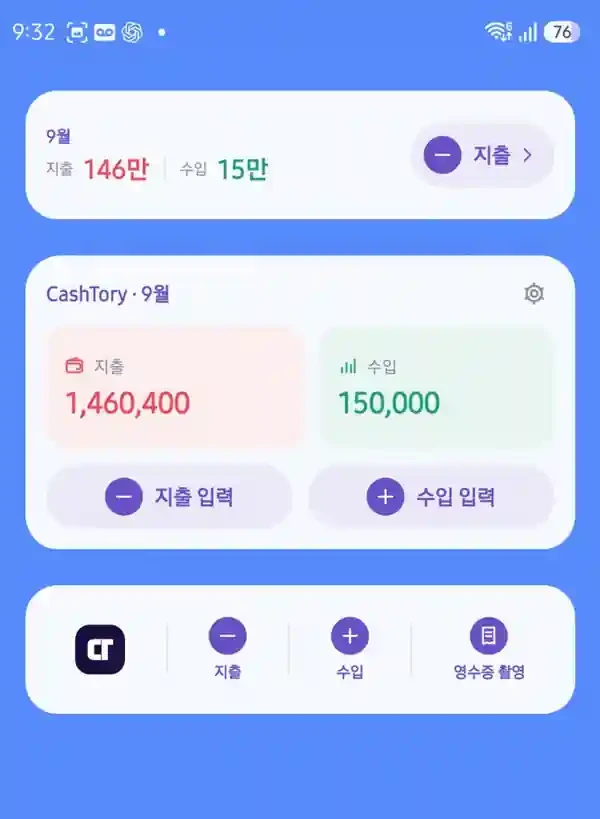
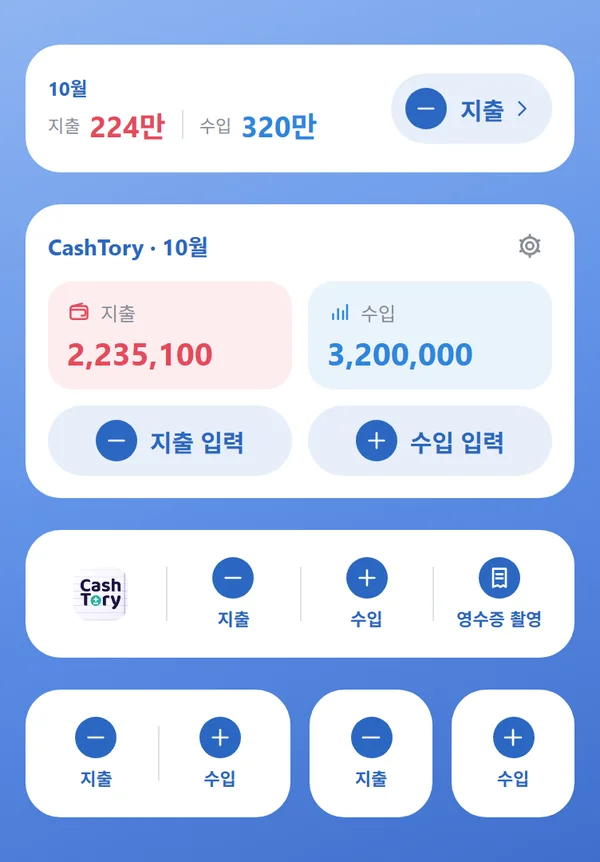
Update the CashTory widget image for 1.7.1
- New widgets.webp shows all six home-screen widgets (4x1 summary,
  4x2, 4x1 quick launch, 2x1 and both 1x1) in the blue theme, with the
  new app icon in the quick-launch widget
- Rendered from the app's own widget components at v1.7.1-23 through a
  capture-only web shim, replacing the September phone screenshot
  that still had the old CT icon
- Widget image URL gets ?v=20261025 so browsers load the new file

diff --git a/cashtory/index.html b/cashtory/index.html
@@ -331,7 +331,7 @@ footer{padding:32px 0 42px;border-top:1px solid var(--line);color:#777A85;font-s
           <h2>앱을 열지 않아도,<br>필요한 기능은 바로.</h2>
           <p class="sectionLead">이번 달 요약, 지출·수입 바로 입력, 영수증 촬영까지 위젯 6종. 바탕 투명도도 홈 화면에 맞게 고를 수 있어요.</p>
         </div>
-        <div class="widgetImg"><img src="/cashtory/assets/widgets.webp" alt="안드로이드 홈 화면에 배치한 CashTory 위젯" width="600" height="819" loading="lazy" decoding="async"></div>
+        <div class="widgetImg"><img src="/cashtory/assets/widgets.webp?v=20261025" alt="안드로이드 홈 화면에 배치한 CashTory 위젯" width="600" height="862" loading="lazy" decoding="async"></div>
       </div>
     </section>
 

diff --git a/tools/build_cashtory_pages.py b/tools/build_cashtory_pages.py
@@ -585,7 +585,7 @@ def page(lang: str) -> str:
     if c["widgets_img"]:
         src, alt = c["widgets_img"]
         w, h = webp_size(ROOT / src.lstrip("/"))
-        widgets = f'<div class="widgetImg"><img src="{src}" alt="{e(alt)}" width="{w}" height="{h}" loading="lazy" decoding="async"></div>'
+        widgets = f'<div class="widgetImg"><img src="{src}?v={SHOTS_VER}" alt="{e(alt)}" width="{w}" height="{h}" loading="lazy" decoding="async"></div>'
     else:
         widgets = '<div class="grid3">' + "".join(
             f'<div class="card"><b>{e(b)}</b><p>{e(p)}</p></div>' for b, p in c["widgets_cards"]
